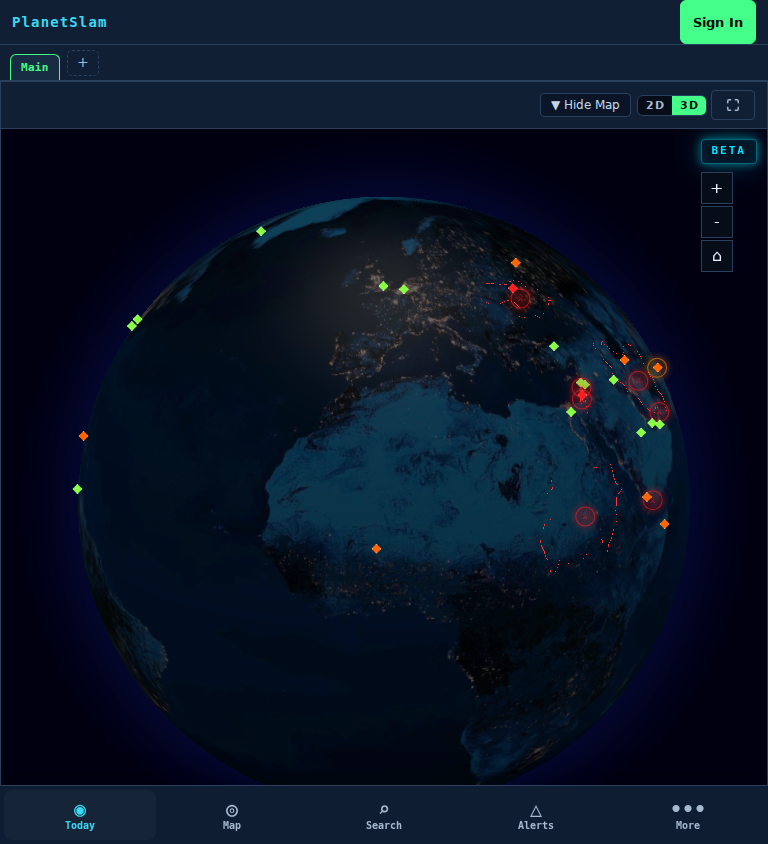
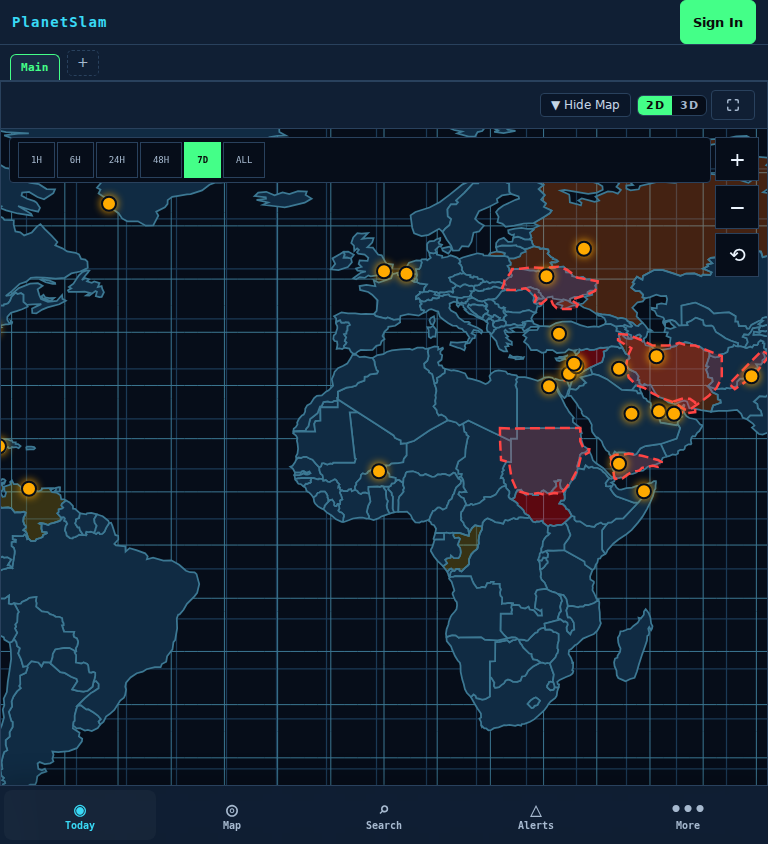
Default PlanetSlam to 2D and suppress Pro launch promotion

diff --git a/e2e/planetslam-foundation.spec.ts b/e2e/planetslam-foundation.spec.ts
@@ -12,6 +12,8 @@ for (const width of [1440, 768, 390]) {
         'worldmonitor-panels': JSON.stringify({ politics: { name: 'World News', enabled: true, priority: 0 } }),
       } },
     });
+    // Exercise the brand policy with no remembered dismissal.
+    await page.addInitScript(() => localStorage.removeItem('wm-pro-banner-launched-dismissed'));
     // Controlled UI acceptance, deliberately separate from live-feed validation.
     await page.route('**/api/**', route => route.fulfill({ json: {} }));
     await page.route('**/api/bootstrap*', route => route.fulfill({ json: { missing: [], data: {} } }));
@@ -23,9 +25,13 @@ for (const width of [1440, 768, 390]) {
     await expect(page.locator('html')).toHaveAttribute('data-wm-event-handlers-ready', 'true', { timeout: 60_000 });
     await expect(page.locator('#panelsGrid .panel').first()).toBeVisible();
     await expect(page.locator(width <= 768 ? '.logo-mobile' : '.logo')).toHaveText(branded ? (width <= 768 ? 'PlanetSlam' : 'PLANETSLAM') : (width <= 768 ? 'World Monitor' : 'MONITOR'));
+    if (branded) {
+      await expect(page.locator('.pro-banner')).toHaveCount(0);
+      await expect(page.locator('html')).not.toHaveClass(/wm-pro-banner-reserved/);
+    }
     if (branded) await expect(page.locator('html')).toHaveAttribute('data-brand', 'planetslam');
     else expect(await page.locator('html').getAttribute('data-brand')).toBeNull();
-    await expect(page.locator('#mapContainer')).toHaveClass(branded ? /globe-mode/ : /deckgl-mode|svg-mode/, { timeout: 60_000 });
+    await expect(page.locator('#mapContainer')).toHaveClass(/deckgl-mode|svg-mode/, { timeout: 60_000 });
     await expect.poll(() => page.evaluate(() => document.documentElement.scrollWidth <= innerWidth + 1)).toBe(true);
     await page.screenshot({ path: `docs/planetslam/evidence/${branded ? 'planetslam' : 'upstream'}-${width}-dark.png` });
     const openSettings = async () => {

diff --git a/branding/vite-plugin.ts b/branding/vite-plugin.ts
@@ -6,7 +6,7 @@ function brandDashboard(html: string): string {
     .replace(/<title>.*?<\/title>/, '<title>PlanetSlam — Global Intelligence</title>')
     .replace(/<meta name="application-name" content=".*?" \/>/, '<meta name="application-name" content="PlanetSlam" />')
     .replace(/<link rel="canonical"[^>]*>/g, '')
-    .replace('</head>', '<meta name="robots" content="noindex, nofollow" /></head>')
+    .replace('</head>', '<meta name="robots" content="noindex, nofollow" /><style>html[data-brand="planetslam"]{--wm-pro-banner-slot-height:0px}html[data-brand="planetslam"].wm-pro-banner-reserved #app::before{display:none}</style></head>')
     .replace('<span>World Monitor</span>', '<span>PlanetSlam</span>')
     .replace(/<link rel="icon"[^>]*>/g, '')
     .replace('</head>', '<link rel="icon" type="image/svg+xml" href="/branding/planetslam/mark.svg" /></head>');

diff --git a/src/components/ProBanner.ts b/src/components/ProBanner.ts
@@ -1,3 +1,4 @@
+import { IS_PLANETSLAM } from '@/config/brand';
 import { trackGateHit } from '@/services/analytics';
 import { onEntitlementChange, getEntitlementState, isEntitlementActive } from '@/services/entitlements';
 import { getSubscription, onSubscriptionChange } from '@/services/billing';
@@ -208,6 +209,10 @@ function resolveEffectiveBannerPremium(): EffectiveBannerPremium {
 }
 
 export function showProBanner(container: HTMLElement): void {
+  if (IS_PLANETSLAM) {
+    setReservation(false);
+    return;
+  }
   // Cache container even on early-return paths so the entitlement-change
   // listener can re-mount on a downgrade. App.ts calls this once at init
   // regardless of premium state, so caching here covers both "initially

diff --git a/src/config/variants/base.ts b/src/config/variants/base.ts
@@ -1,4 +1,3 @@
-import { IS_PLANETSLAM } from '../brand';
 // Base configuration shared across all variants
 import type { PanelConfig, MapLayers } from '@/types';
 
@@ -130,7 +129,7 @@ export const STORAGE_KEYS = {
 } as const;
 
 export type MapModePreference = 'flat' | 'globe';
-export const DEFAULT_MAP_MODE: MapModePreference = IS_PLANETSLAM ? 'globe' : 'flat';
+export const DEFAULT_MAP_MODE: MapModePreference = 'flat';
 
 // Type definitions for variant configs
 export interface VariantConfig {

diff --git a/docs/planetslam/ARCHITECTURE.md b/docs/planetslam/ARCHITECTURE.md
@@ -16,7 +16,7 @@ Browser -> existing generated RPC clients -> existing Vite local handlers / self
 
 `VITE_BRAND=planetslam` selects identity in `src/config/brand.ts`; unset retains World Monitor. `src/styles/planetslam.css` centralizes Deep Space tokens, maps them onto upstream semantic variables and scopes every rule to `html[data-brand="planetslam"]`. `public/branding/planetslam/mark.svg` is an original code-native asset. Light mode retains the upstream palette with accessible cyan/amber/red overrides. Theme preference, Auto system changes and persistence reuse the upstream implementation and keys.
 
-`branding/vite-plugin.ts` sets dashboard HTML identity and noindex, removes dashboard canonical claims and supplies the SVG icon. Small hooks in Vite, main, panel layout and map defaults select the brand and existing globe. Explicit stored map choice wins, and upstream capability/failure fallbacks stay in place. Existing responsive panels, map controls, search, layer selection and feeds are reused. Other upstream marketing/reference pages and PWA identities are retained unless explicitly documented as customized: this is a dashboard foundation, not a complete public-site rebrand.
+`branding/vite-plugin.ts` sets dashboard HTML identity and noindex, removes dashboard canonical claims and supplies the SVG icon. Small hooks in Vite, main, panel layout and banner select the brand and suppress the upstream Pro launch promotion. The brand HTML transform also disables its prepaint reservation to prevent a blank strip. New visits default to the existing 2D map. Explicit stored map choice wins, and upstream capability/failure fallbacks stay in place. Existing responsive panels, map controls, search, layer selection and feeds are reused. Other upstream marketing/reference pages and PWA identities are retained unless explicitly documented as customized: this is a dashboard foundation, not a complete public-site rebrand.
 
 ## Untrusted data
 
